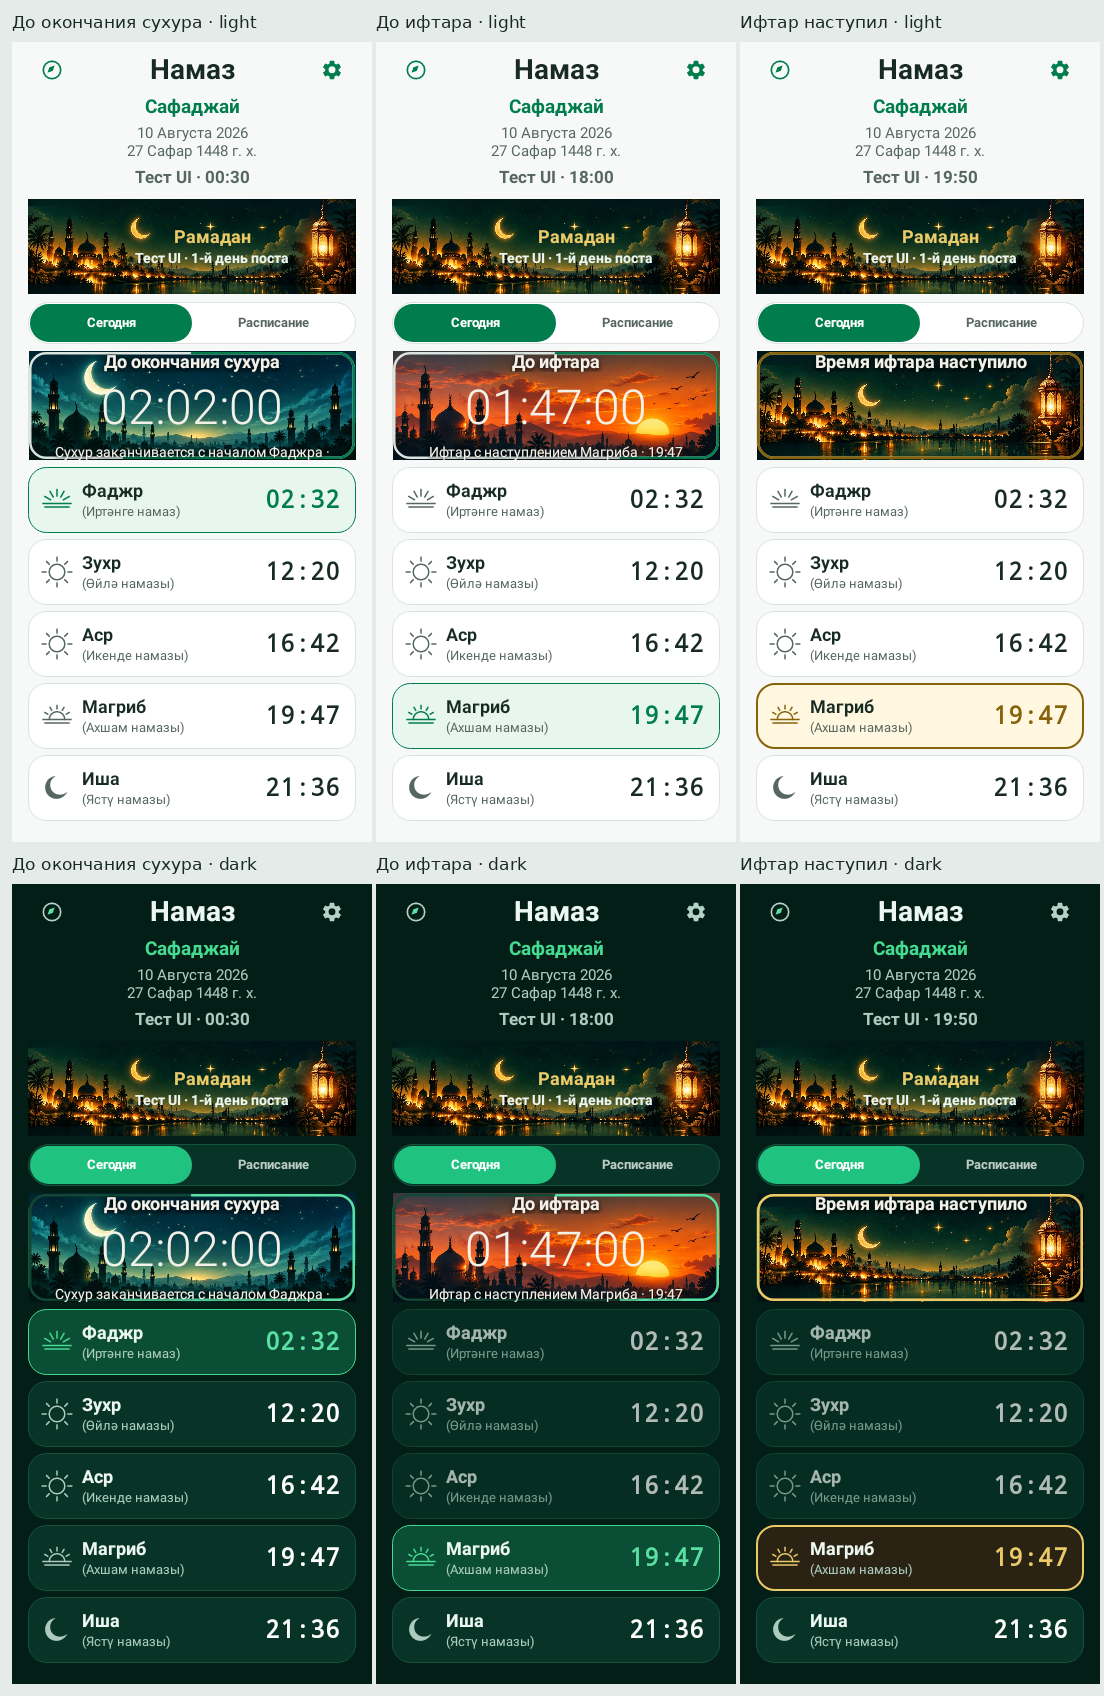
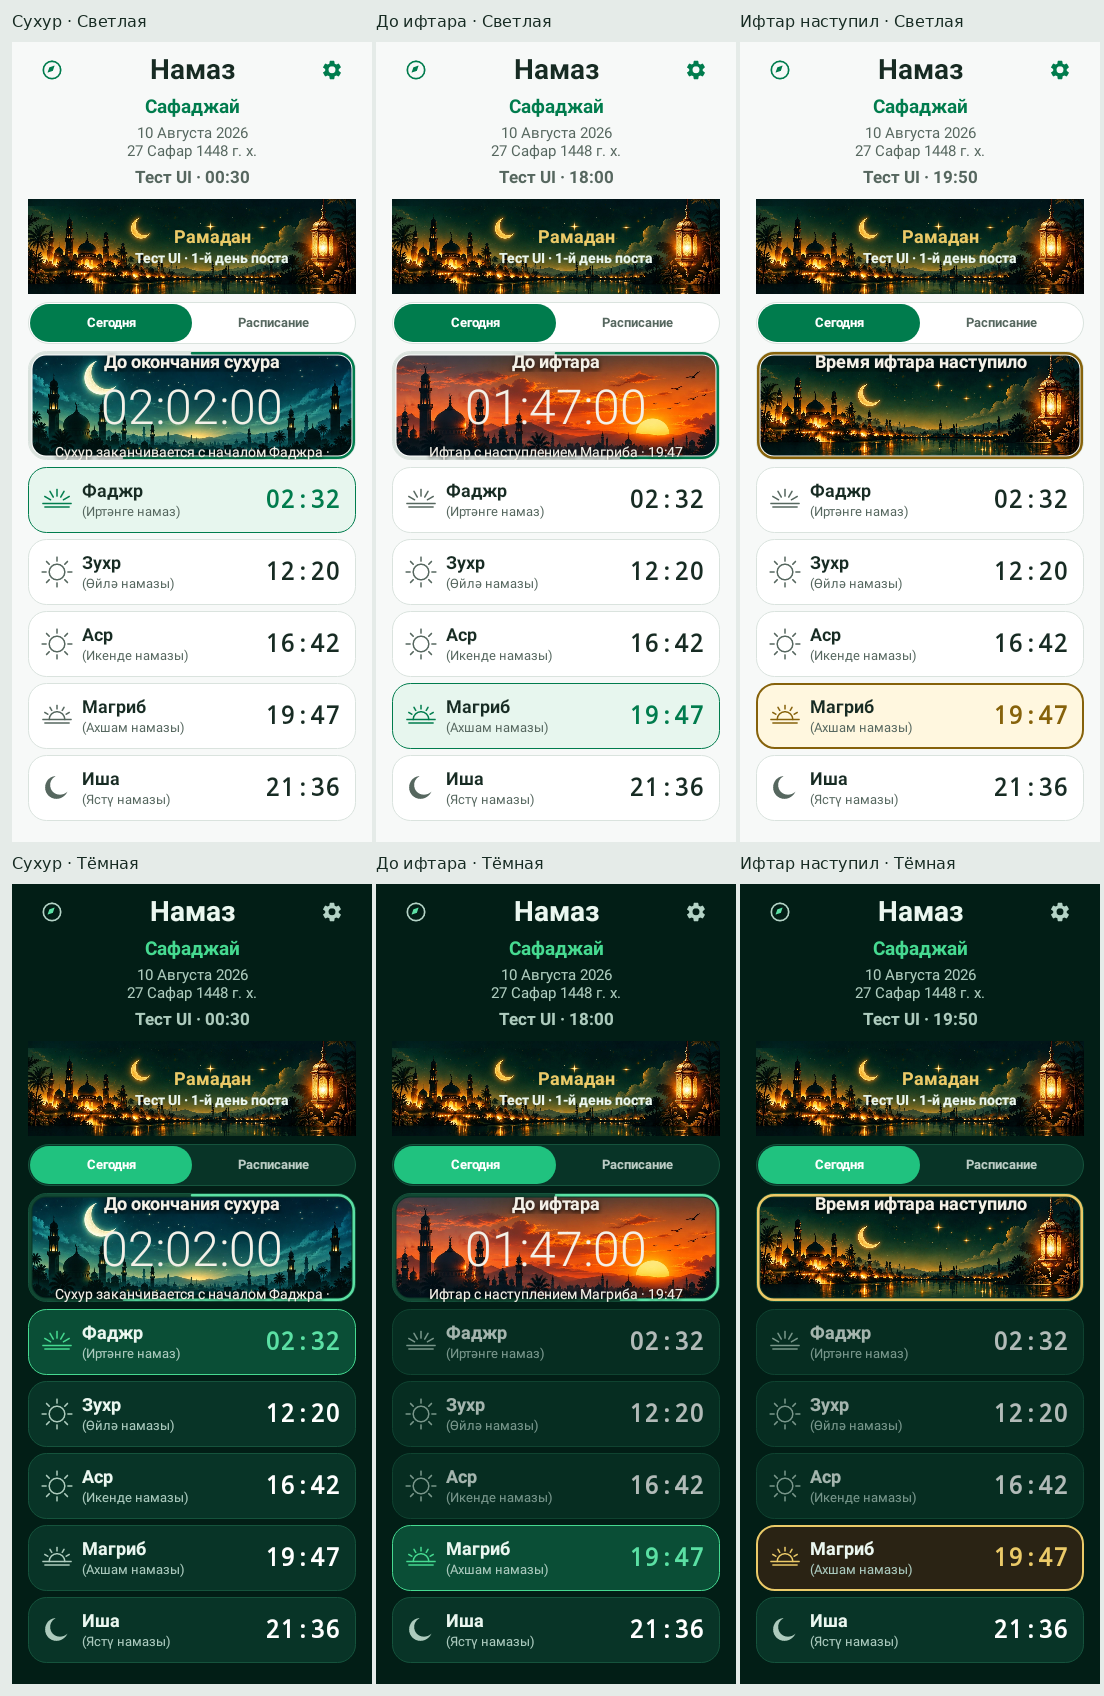
Clip Ramadan countdown artwork inside the progress border

diff --git a/app/src/test/java/ru/namaz/safadzhay/ThemeAndRamadanTest.kt b/app/src/test/java/ru/namaz/safadzhay/ThemeAndRamadanTest.kt
@@ -214,7 +214,10 @@ class ThemeAndRamadanTest {
                     if (key == "iftar") assertEquals("До ифтара", next.text)
                     if (key == "after") assertEquals("Время ифтара наступило", next.text)
                     screenshot(a.findViewById(android.R.id.content), "ramadan-$key-${mode.storedValue}-$dark")
-                    if (key != "before") assertRamadanArtwork(a, key, dark)
+                    if (key != "before") {
+                        assertRamadanArtwork(a, key, dark)
+                        assertArtworkClipping(a, "ramadan-$key-${mode.storedValue}-$dark")
+                    }
                     if (key == "iftar") {
                         ReflectionHelpers.setField(a, "scheduleTabSelected", true); invoke(a, "update")
                         screenshot(a.findViewById(android.R.id.content), "ramadan-schedule-${mode.storedValue}-$dark")
@@ -223,6 +226,71 @@ class ThemeAndRamadanTest {
                 } finally { c.pause().stop().destroy() }
             }
         }
+    }
+
+    private fun assertArtworkClipping(a: MainActivity, name: String) {
+        val image = ReflectionHelpers.getField<ImageView>(a, "ramadanCountdownBackground")
+        val card = ReflectionHelpers.getField<View>(a, "countdownCard")
+        assertClippedImage(image, name)
+        val position = IntArray(2)
+        card.getLocationInWindow(position)
+        File("build/reports/theme-ui").resolve("$name-bounds.txt").writeText(
+            "${position[0]},${position[1]},${card.width},${card.height}"
+        )
+        val composite = Bitmap.createBitmap(card.width, card.height, Bitmap.Config.ARGB_8888)
+        card.draw(Canvas(composite))
+        File("build/reports/theme-ui").resolve("$name-card.png").outputStream().use {
+            composite.compress(Bitmap.CompressFormat.PNG, 100, it)
+        }
+        composite.recycle()
+    }
+
+    @Test fun artworkClipRespectsInnerBorderAcrossDensitiesAndSizes() {
+        for (qualifier in listOf("mdpi", "hdpi", "xhdpi", "xxxhdpi")) {
+            RuntimeEnvironment.setQualifiers("w360dp-h800dp-notnight-$qualifier")
+            val density = app.resources.displayMetrics.density
+            for (widthDp in listOf(328, 480)) {
+                for (asset in listOf(R.drawable.ramadan_suhoor, R.drawable.ramadan_iftar, R.drawable.ramadan_iftar_started)) {
+                    val image = RamadanCountdownImageView(app).apply {
+                        scaleType = ImageView.ScaleType.FIT_CENTER
+                        setImageResource(asset)
+                    }
+                    val width = (widthDp * density).toInt()
+                    image.measure(View.MeasureSpec.makeMeasureSpec(width, View.MeasureSpec.EXACTLY),
+                        View.MeasureSpec.makeMeasureSpec(width / 3, View.MeasureSpec.EXACTLY))
+                    image.layout(0, 0, width, width / 3)
+                    assertClippedImage(image, "clip-$qualifier-$widthDp-$asset")
+                }
+            }
+        }
+    }
+
+    private fun assertClippedImage(image: ImageView, name: String) {
+        val bitmap = Bitmap.createBitmap(image.width, image.height, Bitmap.Config.ARGB_8888)
+        image.draw(Canvas(bitmap))
+        val density = image.resources.displayMetrics.density
+        val inset = density * 3.5f
+        val radius = minOf(density * 14.5f, (image.width - 2f * inset) / 2f,
+            (image.height - 2f * inset) / 2f).coerceAtLeast(0f)
+        // Independently check the inner stroke contour at every pixel centre,
+        // including all four arcs. This catches rectangular/outer-only clipping.
+        var visible = 0
+        for (y in 0 until bitmap.height) for (x in 0 until bitmap.width) {
+            val px = x + 0.5f; val py = y + 0.5f
+            val inBounds = px >= inset && px < image.width - inset &&
+                py >= inset && py < image.height - inset
+            val cx = px.coerceIn(inset + radius, image.width - inset - radius)
+            val cy = py.coerceIn(inset + radius, image.height - inset - radius)
+            val inside = inBounds && (px - cx) * (px - cx) + (py - cy) * (py - cy) <= radius * radius
+            val alpha = Color.alpha(bitmap.getPixel(x, y))
+            if (!inside) assertEquals("$name artwork outside inner border at ($x,$y)", 0, alpha)
+            if (alpha > 0) visible++
+        }
+        assertTrue("Artwork must remain visible inside the border", visible > bitmap.width * bitmap.height / 2)
+        File("build/reports/theme-ui").apply { mkdirs() }.resolve("$name-artwork.png").outputStream().use {
+            bitmap.compress(Bitmap.CompressFormat.PNG, 100, it)
+        }
+        bitmap.recycle()
     }
 
     private fun assertRamadanArtwork(a: MainActivity, scene: String, dark: Boolean) {

diff --git a/app/src/main/java/ru/namaz/safadzhay/RamadanCountdownImageView.kt b/app/src/main/java/ru/namaz/safadzhay/RamadanCountdownImageView.kt
@@ -1,0 +1,44 @@
+package ru.namaz.safadzhay
+
+import android.content.Context
+import android.graphics.Canvas
+import android.graphics.Path
+import android.graphics.RectF
+import android.widget.ImageView
+import kotlin.math.min
+
+/** Clips only the artwork, leaving the countdown's progress/text layers untouched. */
+internal class RamadanCountdownImageView(context: Context) : ImageView(context) {
+    private val artworkClip = Path()
+    private val artworkBounds = RectF()
+
+    override fun onSizeChanged(w: Int, h: Int, oldw: Int, oldh: Int) {
+        super.onSizeChanged(w, h, oldw, oldh)
+        val density = resources.displayMetrics.density
+        // Match the existing CardProgressIndicator, without changing its geometry:
+        // 2.5dp stroke, centre inset = half stroke + 1dp, outer corner radius = 18dp.
+        val halfStroke = density * 2.5f / 2f
+        val centreInset = halfStroke + density
+        val centreRadius = min(
+            density * 18f - centreInset,
+            min(w - 2f * centreInset, h - 2f * centreInset) / 2f
+        ).coerceAtLeast(0f)
+        // One physical pixel keeps antialiased corner coverage inside the stroke.
+        // This affects only the artwork mask, never the view bounds or border.
+        val antialiasInset = 1f
+        val innerInset = centreInset + halfStroke + antialiasInset
+        val innerRadius = (centreRadius - halfStroke - antialiasInset).coerceAtLeast(0f)
+        artworkClip.reset()
+        artworkBounds.set(innerInset, innerInset, w - innerInset, h - innerInset)
+        if (!artworkBounds.isEmpty) {
+            artworkClip.addRoundRect(artworkBounds, innerRadius, innerRadius, Path.Direction.CW)
+        }
+    }
+
+    override fun onDraw(canvas: Canvas) {
+        val saved = canvas.save()
+        canvas.clipPath(artworkClip)
+        super.onDraw(canvas)
+        canvas.restoreToCount(saved)
+    }
+}

diff --git a/app/src/main/java/ru/namaz/safadzhay/MainActivity.kt b/app/src/main/java/ru/namaz/safadzhay/MainActivity.kt
@@ -1166,7 +1166,7 @@ headerBox.addView(
                 }
             }
         }
-        ramadanCountdownBackground = ImageView(this).apply {
+        ramadanCountdownBackground = RamadanCountdownImageView(this).apply {
             scaleType = ImageView.ScaleType.FIT_CENTER
             visibility = View.GONE
         }
